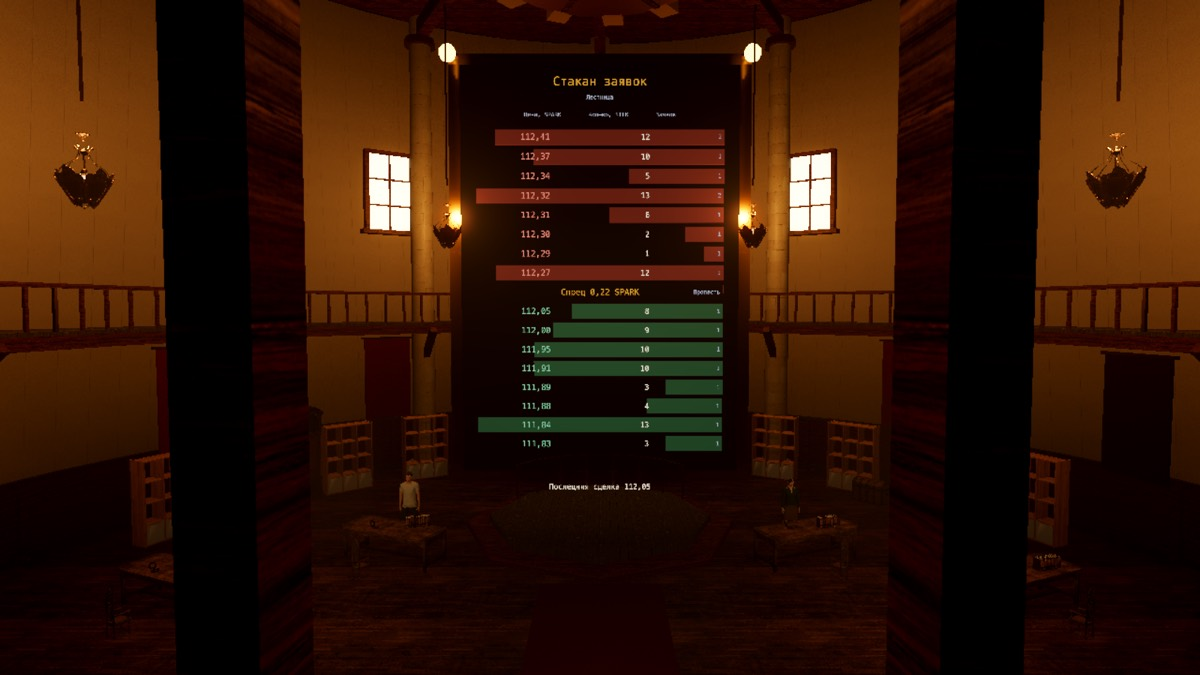
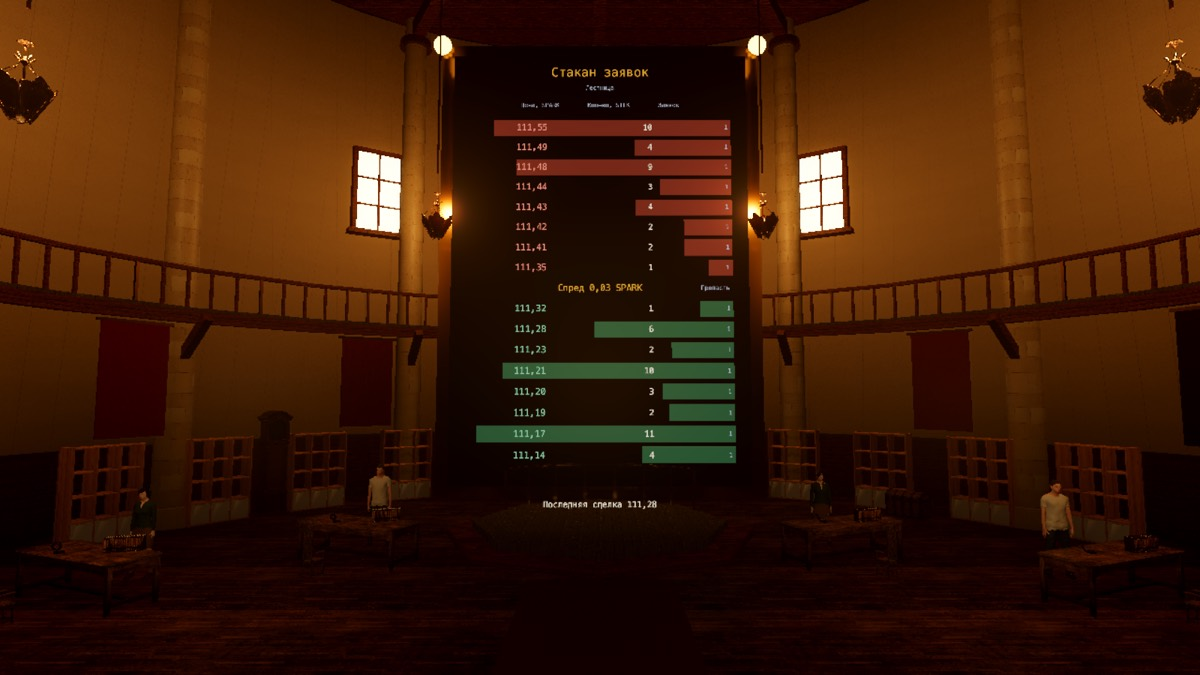
G3D polish demo: hall view from the floor (the old camera spot is on the gallery now)

diff --git a/docs/demo/G3D-polish.md b/docs/demo/G3D-polish.md
@@ -137,6 +137,7 @@ Same camera, same place (`--views`).
 | The hall, looking up ![](g3d-polish/before/view-hall-up.jpg) | ![](g3d-polish/after/view-hall-up.jpg) |
 
 (The "before" wharf camera stands inside a later house; the old picture shows what was there: a pier in the air.)
+The hall "after" camera stands lower than the "before" one: the old spot is now on the gallery, behind the balustrade.
 
 ### Buildings (`scripts/houses.gd`, `scripts/kit.gd`, `scripts/decals.gd`)
 A house is built from modules: stone plinth with a foundation that goes into a slope, plastered walls in a timber
